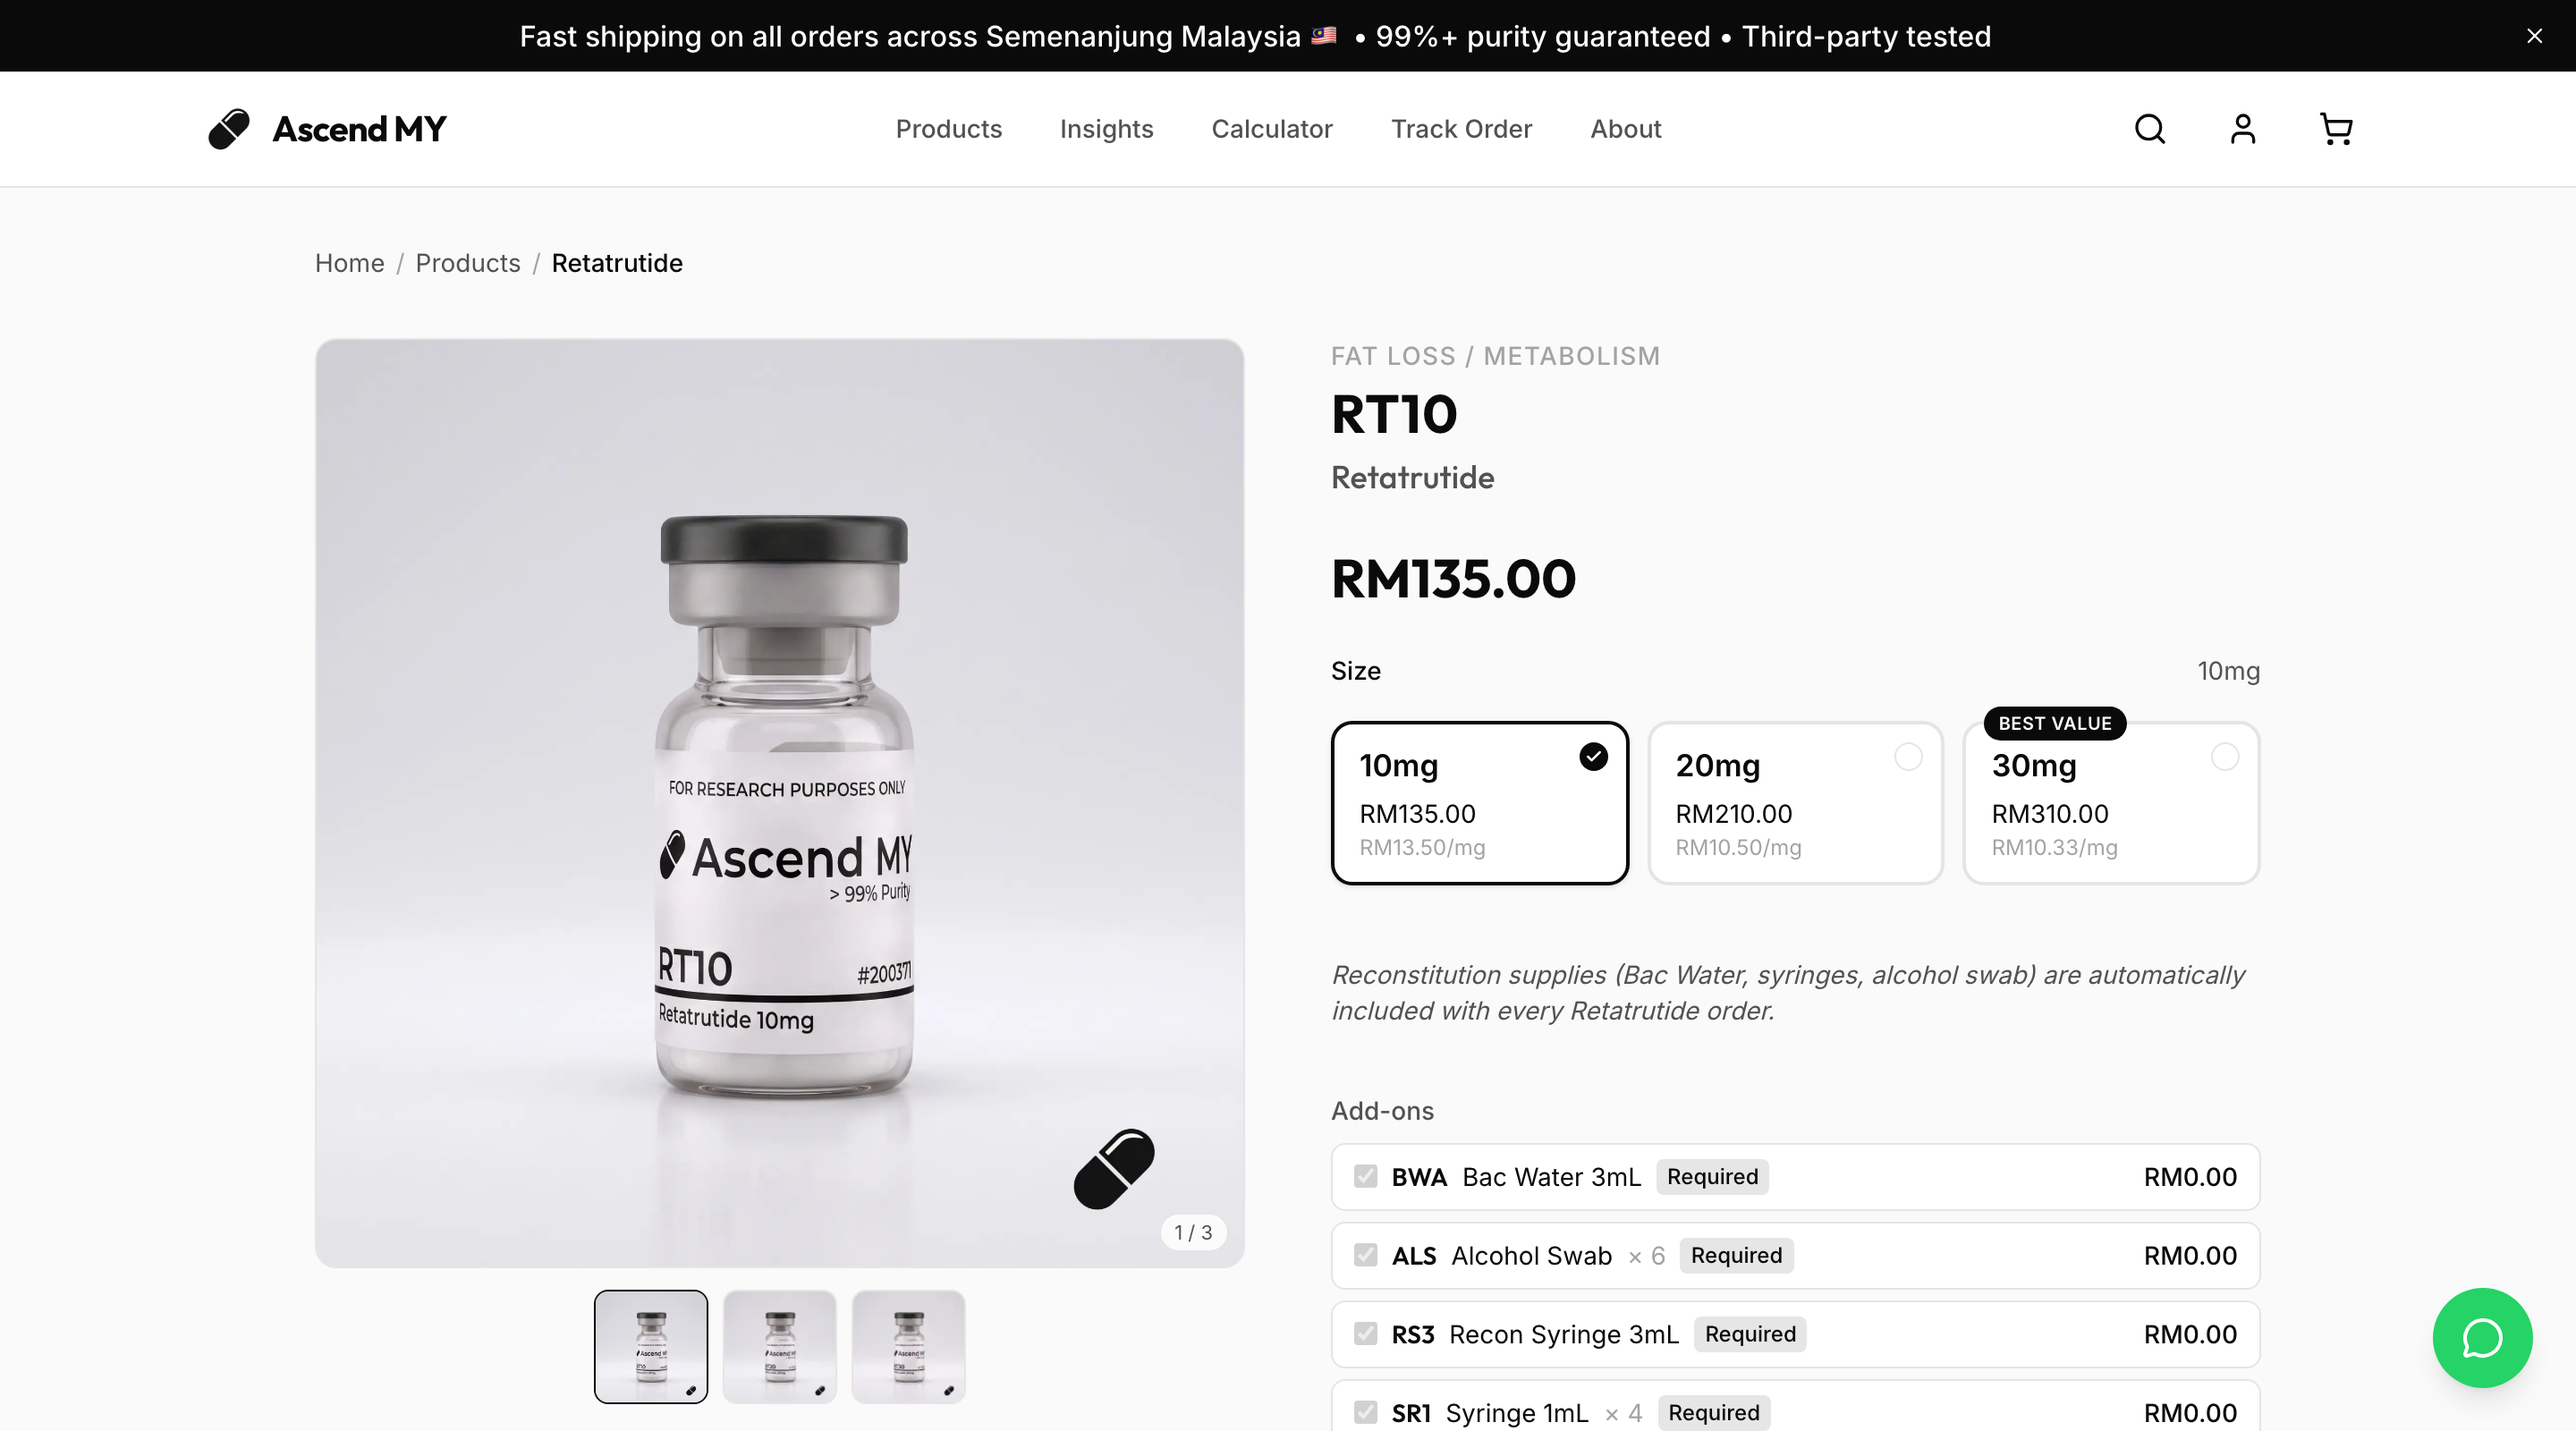
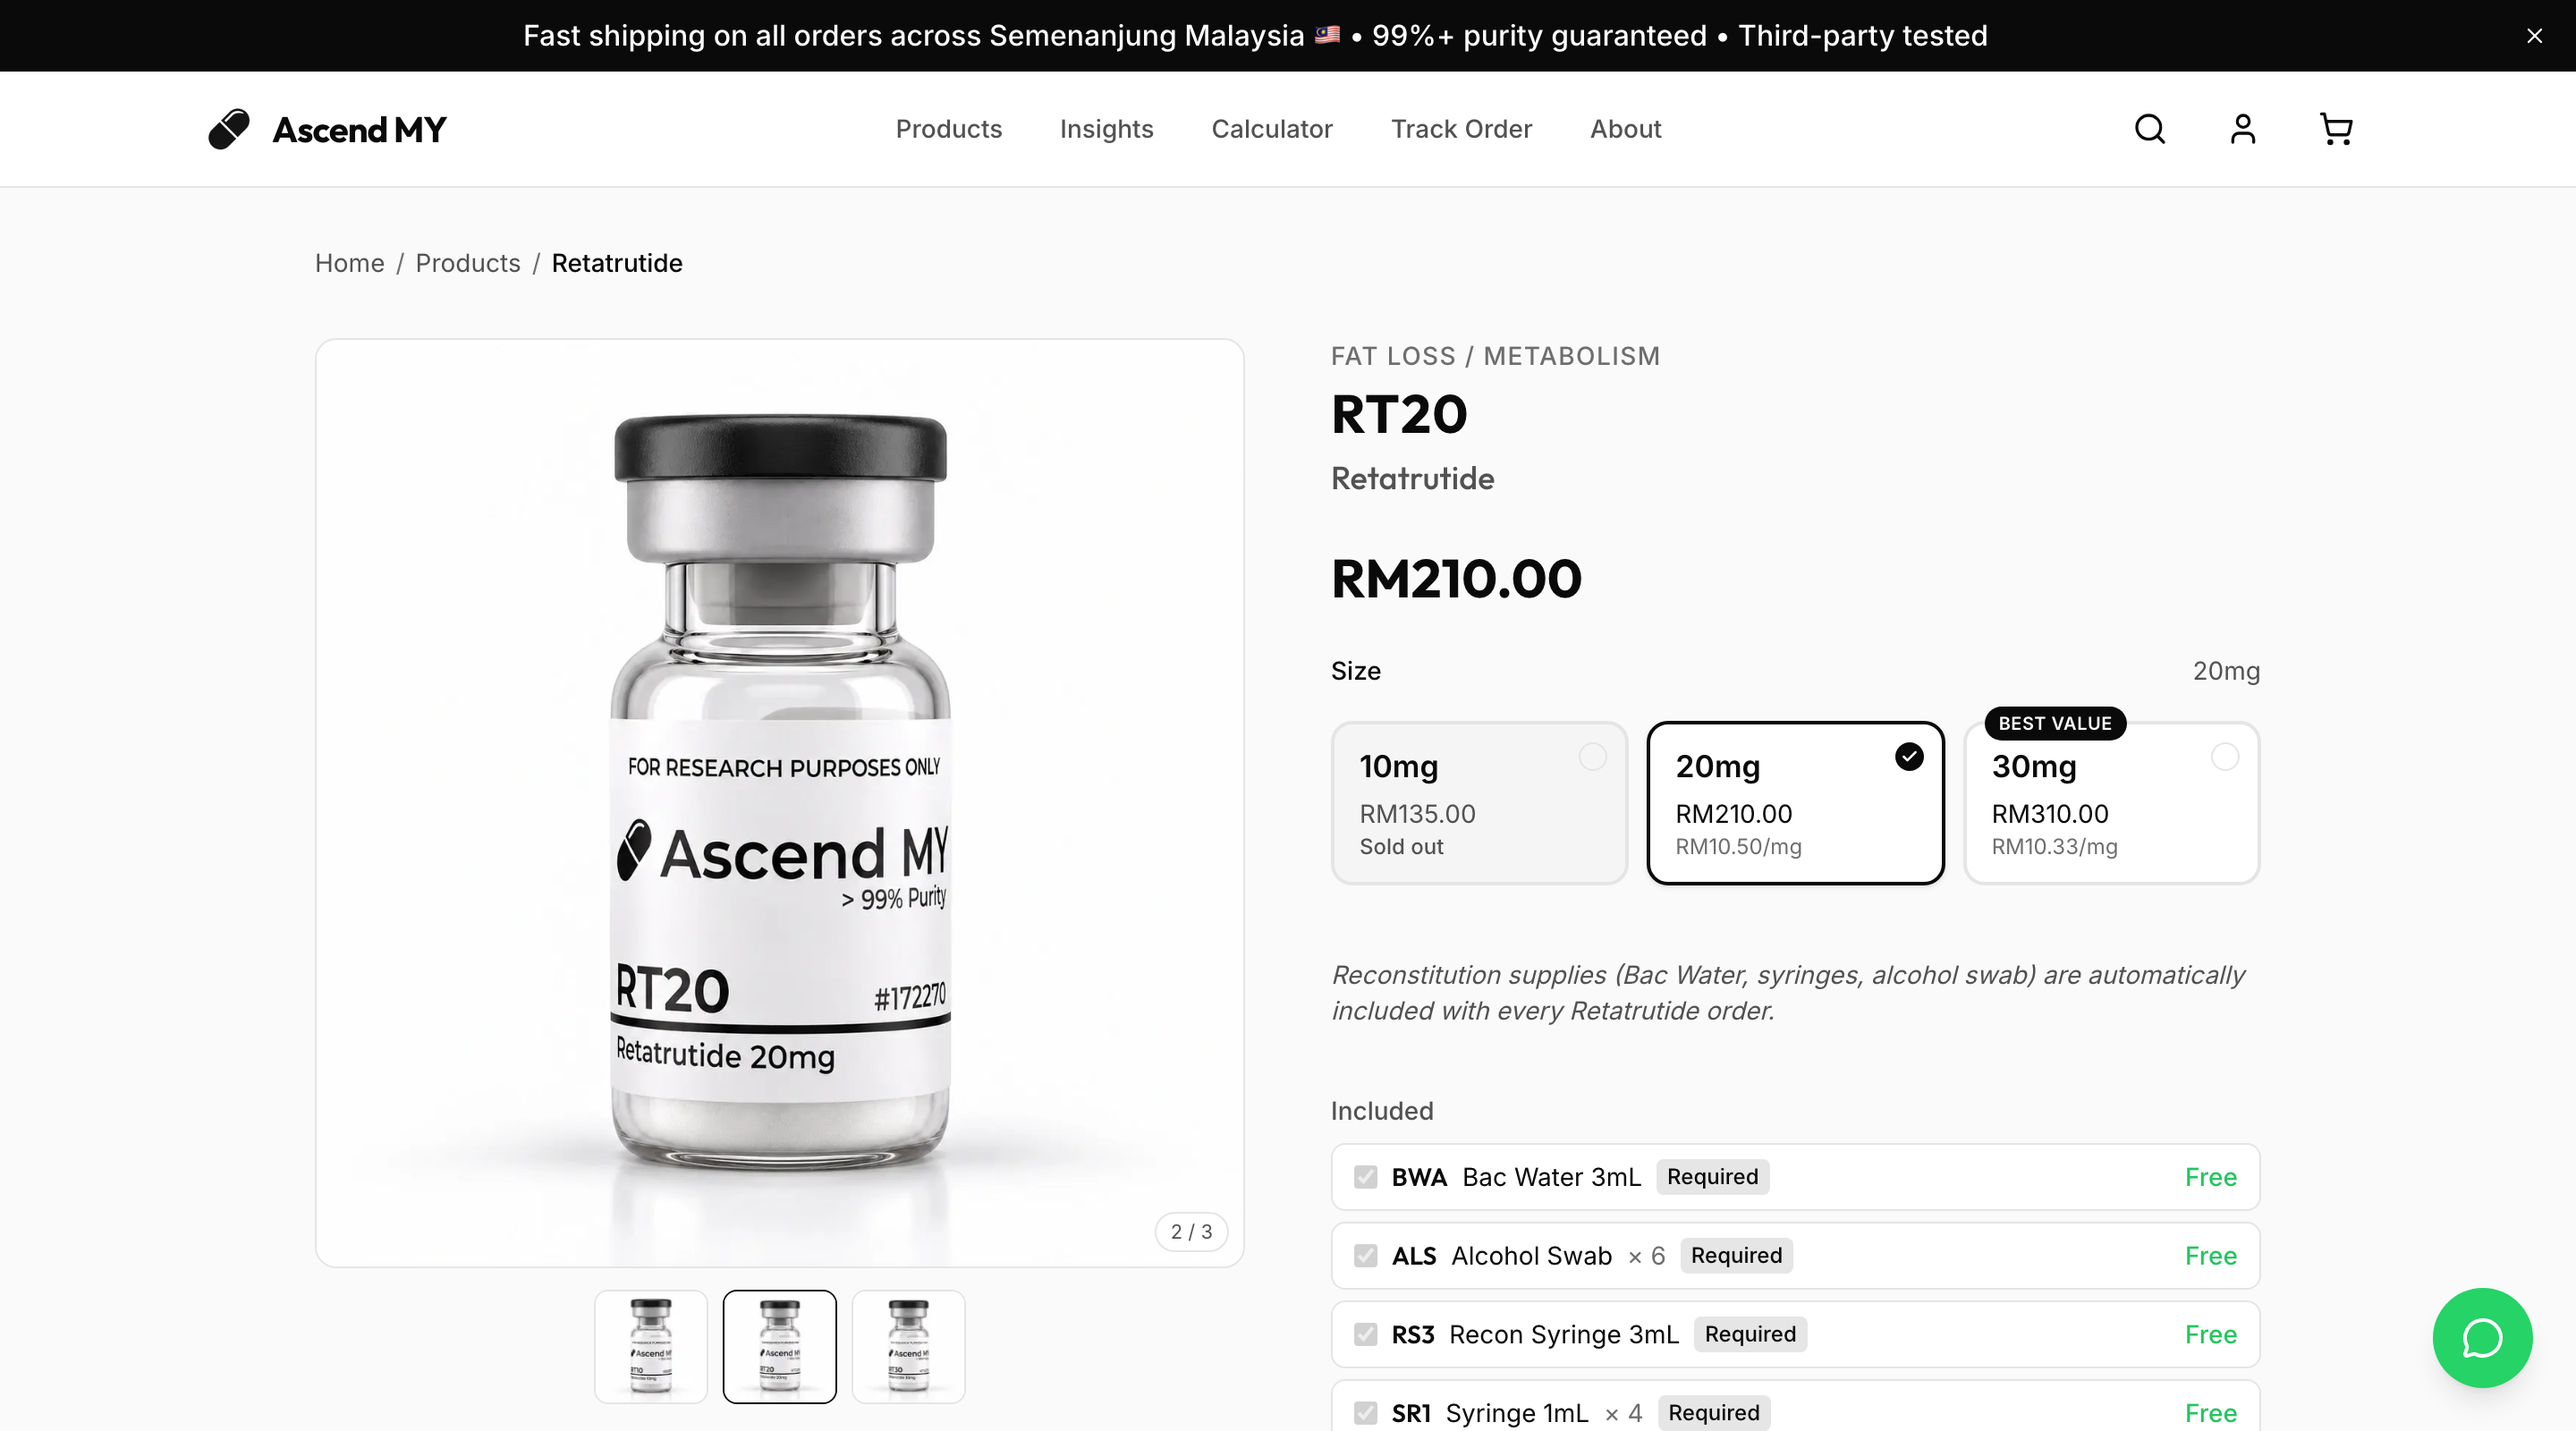
docs: README product screenshot shows included supplies and the in-stock default size

diff --git a/README.md b/README.md
@@ -103,7 +103,7 @@ AscPeps/
 
 ## The storefront
 
-<img src="docs/screens/product.png" alt="A product page: sizes with per-mg price, required reconstitution supplies as add-ons" width="100%">
+<img src="docs/screens/product.png" alt="A product page: sizes with per-mg price, opening on the cheapest size in stock, with the reconstitution supplies included under it" width="100%">
 
 Every page is real HTML before any JavaScript runs — the catalogue never
 bails out to a client fetch, so a crawler with no JS engine and a phone on a
